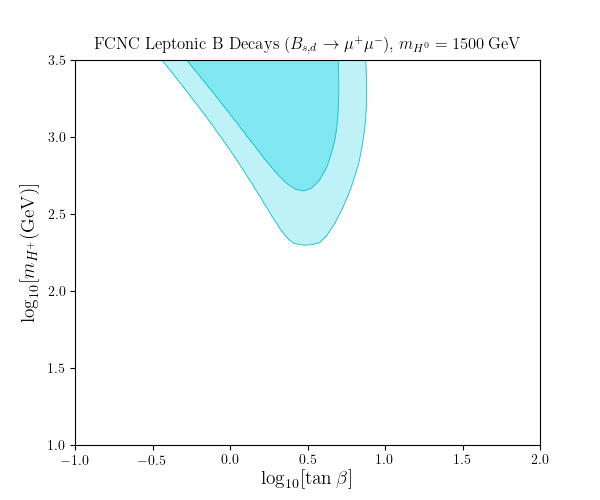
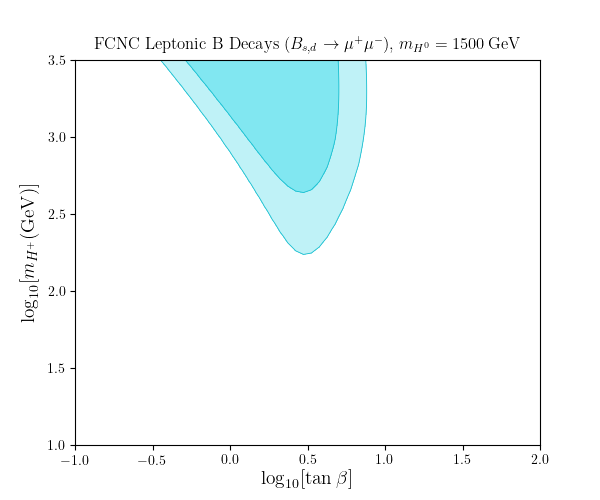
tweaks

diff --git a/repl-glob.py b/repl-glob.py
@@ -53,13 +53,15 @@ my_obs = [
     ("<Rmue>(B0->K*ll)", 1.1, 6.0), # [40]
 ]
 
-#par = flavio.default_parameters.get_central_all()
-#ckm_els = flavio.physics.ckm.get_ckm(par) # get out all the CKM elements
-#mH0 = np.log10(1500)
-#mH = np.log10(1000)
-#tanb = np.log10(np.tan(np.pi/4))
-#C9_s, C9p_s, C10_s, C10p_s, CS_s, CSp_s, CP_s, CPp_s = bsll(par,ckm_els,['m_s','m_d',1],['m_mu','m_e',1],10**mH0,10**tanb,10**mH)
-#quit()
+print("For mH0 = 1500 GeV, mH+ = 1000 GeV, b = pi/4, a = -pi/4:")
+print()
+par = flavio.default_parameters.get_central_all()
+ckm_els = flavio.physics.ckm.get_ckm(par) # get out all the CKM elements
+mH0 = np.log10(1500)
+mH = np.log10(1000)
+tanb = np.log10(np.tan(np.pi/4))
+C9_s, C9p_s, C10_s, C10p_s, CS_s, CSp_s, CP_s, CPp_s = bsll(par,ckm_els,['m_s','m_d',1],['m_mu','m_e',1],10**mH0,10**tanb,10**mH)
+quit()
 
 #------------------------------
 #   Leptonic and Semileptonic Tree Levels
@@ -151,33 +153,33 @@ def rad(wcs):
 #   B(s/d) -> mumu + R(K) & R(K*)
 #------------------------------
 
-Fmu = FastLikelihood(name="mu",observables=my_obs[-2:],include_measurements=['LFU K Ratios']) 
-#Fmu = FastLikelihood(name="mu",observables=my_obs[12:14],include_measurements=['FCNC Leptonic Decays',]) 
+#Fmu = FastLikelihood(name="mu",observables=my_obs[-2:],include_measurements=['LFU K Ratios']) 
+Fmu = FastLikelihood(name="mu",observables=my_obs[12:14],include_measurements=['FCNC Leptonic Decays',]) 
 #Fmu = FastLikelihood(name="mu",observables=my_obs[12:14]+my_obs[-3:],include_measurements=['FCNC Leptonic Decays','LFU K Ratios']) 
 Fmu.make_measurement(N=500,threads=4)
 
 def mu(wcs):
     tanb, mH = wcs # state what the two parameters are going to be on the plot
-#    mH0 = mH
-    mH0 = np.log10(1500)
+    mH0 = mH
+#    mH0 = np.log10(1500)
 
     par = flavio.default_parameters.get_central_all()
     ckm_els = flavio.physics.ckm.get_ckm(par) # get out all the CKM elements
 
-    C9_se, C9p_se, C10_se, C10p_se, CS_se, CSp_se, CP_se, CPp_se = bsll(par,ckm_els,['m_s','m_d',1],['m_e','m_mu',0],10**mH0,10**tanb,10**mH)
+#    C9_se, C9p_se, C10_se, C10p_se, CS_se, CSp_se, CP_se, CPp_se = bsll(par,ckm_els,['m_s','m_d',1],['m_e','m_mu',0],10**mH0,10**tanb,10**mH)
     C9_s, C9p_s, C10_s, C10p_s, CS_s, CSp_s, CP_s, CPp_s = bsll(par,ckm_els,['m_s','m_d',1],['m_mu','m_e',1],10**mH0,10**tanb,10**mH)
-#    C9_d, C9p_d, C10_d, C10p_d, CS_d, CSp_d, CP_d, CPp_d = bsll(par,ckm_els,['m_d','m_s',0],['m_mu','m_e',1],10**mH0,10**tanb,10**mH)
-    C7, C7p, C8, C8p = bsgamma2(par,ckm_els,flavio.config['renormalization scale']['bxgamma'],10**tanb,10**mH)
+    C9_d, C9p_d, C10_d, C10p_d, CS_d, CSp_d, CP_d, CPp_d = bsll(par,ckm_els,['m_d','m_s',0],['m_mu','m_e',1],10**mH0,10**tanb,10**mH)
+#    C7, C7p, C8, C8p = bsgamma2(par,ckm_els,flavio.config['renormalization scale']['bxgamma'],10**tanb,10**mH)
 
     wc = flavio.WilsonCoefficients()
     wc.set_initial({ # tell flavio what WCs you're referring to with your variables
-            'C7_bs': C7,'C7p_bs': C7p, 
-            'C8_bs': C8,'C8p_bs': C8p, 
-            'C9_bsee': C9_se,'C9p_bsee': C9p_se,
-            'C9_bsmumu': C9_s,'C9p_bsmumu': C9p_s,
-            'C10_bsee': C10_se,'C10p_bsee': C10p_se,
-            'C10_bsmumu': C10_s,'C10p_bsmumu': C10p_s,#'CS_bsmumu': CS_s,'CSp_bsmumu': CSp_s,'CP_bsmumu': CP_s,'CPp_bsmumu': CPp_s, # Bs->mumu
-#            'C10_bdmumu': C10_d,'C10p_bdmumu': C10p_d,'CS_bdmumu': CS_d,'CSp_bdmumu': CSp_d,'CP_bdmumu': CP_d,'CPp_bdmumu': CPp_d, # B0->mumu
+#           'C7_bs': C7,'C7p_bs': C7p, 
+#           'C8_bs': C8,'C8p_bs': C8p, 
+#           'C9_bsee': C9_se,'C9p_bsee': C9p_se,
+#           'C9_bsmumu': C9_s,'C9p_bsmumu': C9p_s,
+#           'C10_bsee': C10_se,'C10p_bsee': C10p_se,
+            'C10_bsmumu': C10_s,'C10p_bsmumu': C10p_s,'CS_bsmumu': CS_s,'CSp_bsmumu': CSp_s,'CP_bsmumu': CP_s,'CPp_bsmumu': CPp_s, # Bs->mumu
+            'C10_bdmumu': C10_d,'C10p_bdmumu': C10p_d,'CS_bdmumu': CS_d,'CSp_bdmumu': CSp_d,'CP_bdmumu': CP_d,'CPp_bdmumu': CPp_d, # B0->mumu
         }, scale=4.2, eft='WET', basis='flavio')
     return Fmu.log_likelihood(par,wc)
 
@@ -285,9 +287,9 @@ cmu = fpl.likelihood_contour_data(mu,-1,2,1,3.5, n_sigma=sigmas, threads=4, step
 
 plt.figure(figsize=(6,5))
 fpl.contour(**cmu,col=9) 
-#plt.title(r'FCNC Leptonic B Decays ($B_{s,d}\to\mu^+\mu^-$), $m_{H^0}\sim m_{H^+}$')
+plt.title(r'FCNC Leptonic B Decays ($B_{s,d}\to\mu^+\mu^-$), $m_{H^0}\sim m_{H^+}$')
 #plt.title(r'FCNC Leptonic B Decays ($B_{s,d}\to\mu^+\mu^-$), $m_{H^0}=1500\,$GeV')
-plt.title(r'$R_K$ for $q^2\in[1,6]$ \& $R_{K^{*0}}$ for $q^2\in[0.045,6]$')
+#plt.title(r'$R_K$ for $q^2\in[1,6]$ \& $R_{K^{*0}}$ for $q^2\in[0.045,6]$')
 #plt.title(r'$R_K$ for $q^2\in[1,6]$')
 #plt.title(r'$R_{K^{*0}}$ for $q^2\in[0.045,6]$')
 #plt.title(r'$b\to sl^+l^-$ transitions ($B_{s,d}\to\mu^+\mu^-$ \& $R_K(q^2\in[1,6]),R_{K^{*0}}(q^2\in[0.045,6])$), $m_{H^0}\sim m_{H^+}$')
@@ -295,8 +297,8 @@ plt.title(r'$R_K$ for $q^2\in[1,6]$ \& $R_{K^{*0}}$ for $q^2\in[0.045,6]$')
 plt.xlabel(r'$\log_{10}[\tan\beta]$') 
 plt.ylabel(r'$\log_{10}[m_{H^+} (\text{GeV})]$') 
 #plt.savefig('bsll_plot.png')
-#plt.savefig('bmumu_fix.png')
-plt.savefig('rks_plot.png')
+plt.savefig('bmumu_apx.png')
+#plt.savefig('rks_plot.png')
 
 #plt.figure(figsize=(6,5))
 #fpl.contour(**cdat,col=4) 

diff --git a/functions.py b/functions.py
@@ -196,7 +196,7 @@ def bsll(par,CKM,mss,mls,mH0,tanb,mH):
         return i
     def I5(a,b):
         if a == b:
-            i = (b+1+(b-2)*b*np.log(b))/((b-1)**2)
+            i = (b-1+(b-2)*b*np.log(b))/((b-1)**2)
         else:
             i = -1+(a**2)*np.log(a)/((a-1)*(a-b)) - (b**2)*np.log(b)/((b-1)*(a-b))
         return i
@@ -386,10 +386,14 @@ def bsll(par,CKM,mss,mls,mH0,tanb,mH):
     CP = cs_1(Lp(yh,cba,yH0,sba,-1*el),Lm(yh,cba,yH0,sba,-1*el),-1*el) + cs_2(Lp(yh,cba,yH0,sba,-1*el),Lm(yh,cba,yH0,sba,-1*el),-1*el)
     CPP = csp_1(Lp(yh,cba,yH0,sba,-1*el),Lm(yh,cba,yH0,sba,-1*el),-1*el) + csp_2(Lp(yh,cba,yH0,sba,-1*el),Lm(yh,cba,yH0,sba,-1*el),-1*el)
 
-#    print("C10 Z penguin:",c10_1())
-#    print("C10 H+- boxes:", c10_2())
-#    print("C10 prime Z penguin:",c10p_1())
-#    print("C10 prime H+- boxes:",c10p_2())
+    print("C10 Z penguin:",c10_1())
+    print()
+    print("C10 H+- boxes:", c10_2())
+    print()
+    print("C10 prime Z penguin:",c10p_1())
+    print()
+    print("C10 prime H+- boxes:",c10p_2())
+    print()
 #    print("C9:",C9)
 #    print()
 #    print("C9 prime:",C9p)
@@ -398,17 +402,23 @@ def bsll(par,CKM,mss,mls,mH0,tanb,mH):
 #    print()
 #    print("C10 prime:",C10p)
 #    print()
-#    print("CS HH:",cs_1(Lp(yh,cba,yH0,sba,el),Lm(yh,cba,yH0,sba,el),el))
+    print("CS HH:",cs_1(Lp(yh,cba,yH0,sba,el),Lm(yh,cba,yH0,sba,el),el))
+    print()
+    print("CS HW:",cs_2(Lp(yh,cba,yH0,sba,el),Lm(yh,cba,yH0,sba,el),el))
+    print()
+    print("CS prime HH:",csp_1(Lp(yh,cba,yH0,sba,el),Lm(yh,cba,yH0,sba,el),el))
+    print()
+    print("CS prime HW:",csp_2(Lp(yh,cba,yH0,sba,el),Lm(yh,cba,yH0,sba,el),el))
 #    print()
-#    print("CS HW:",cs_2(Lp(yh,cba,yH0,sba,el),Lm(yh,cba,yH0,sba,el),el))
+#    print("CS:",CS)
 #    print()
-#    print("CS prime HH:",csp_1(Lp(yh,cba,yH0,sba,el),Lm(yh,cba,yH0,sba,el),el))
-#    print()
-#    print("CS prime HW:",csp_2(Lp(yh,cba,yH0,sba,el),Lm(yh,cba,yH0,sba,el),el))
+#    print("CS prime:",CSP)
 #    print()
 #    print("CP:",CP)
 #    print()
 #    print("CP prime:",CPP)
+#    print("I4(z3,z3):",I4(zs[2],zs[2]))
+#    print("I5(z3,z3):",I5(zs[2],zs[2]))
 
     return C9, C9p, C10, C10p, CS, CSP, CP, CPP
 
